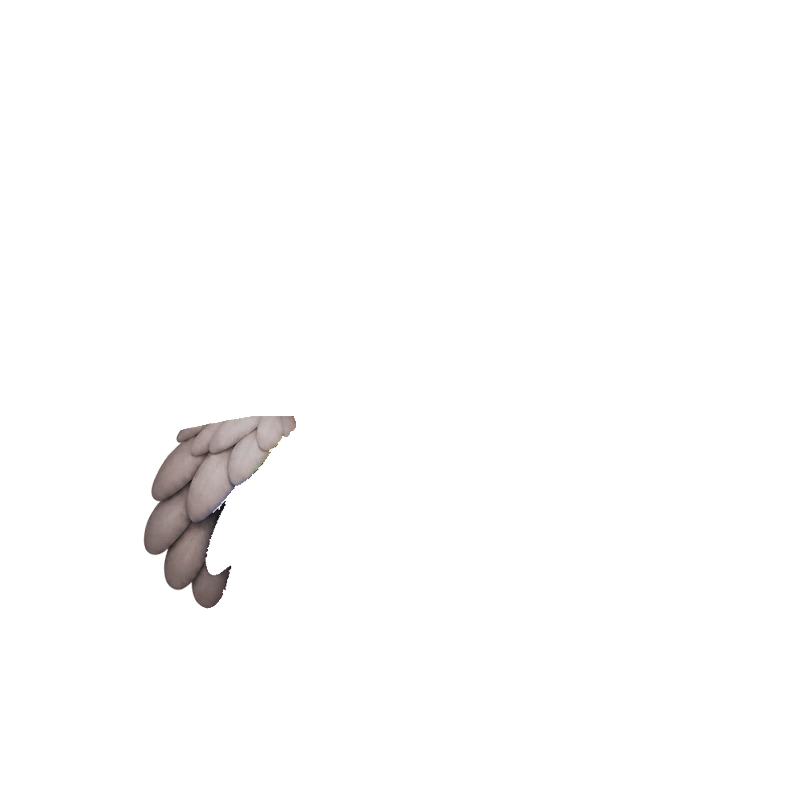
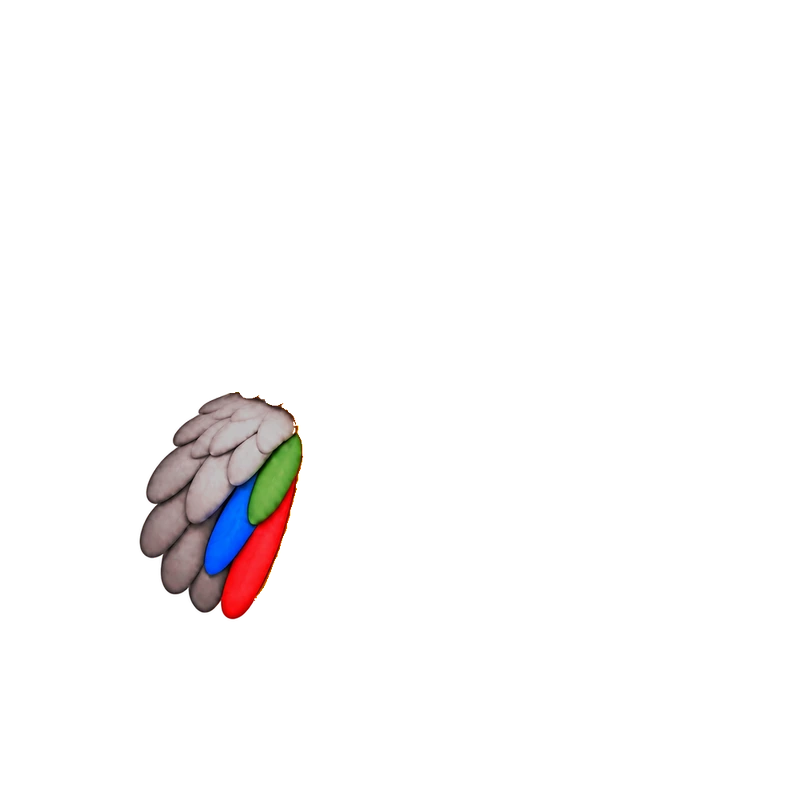
Parrot: locked v1.4 art, moving flight feathers and a per-bird wing pivot
The coloured flight feathers now travel with the wing units instead of
staying behind on the body, which fixes the odd mid-flap look where the
wing appeared to leave its own tips behind.

- the hidden underlay is gone: the supplied breast is the whole fixed body
- feet arrive as two independent layers, replacing the single feet layer
- shiftY 4.8 -> 4.4, because the art now reaches y 92.4 rather than 92.1

Wing pivot is now per-bird. Every manifest states a shoulder height and
the Parrot's has always been 6.5 units lower than the other two, but all
three were rotating about the shared 44. The stylesheet reads --wing-y,
the bird sets it, and only the Parrot overrides the default. Held items
share the pivot so they keep tracking the right wing.

Interior holes are gone - the feet's 945px and the face's 333px are now
0 and 1. Wings and head arrived neutral and passed through untouched.

Claude-Session: https://claude.ai/code/session_01BftYwBApCySU9gZJ9AtT18

Changed region(s): [[0.1562, 0.4688, 0.375, 0.7812], [0.1562, 0.6562, 0.1875, 0.6875]]

diff --git a/static/index.html b/static/index.html
@@ -1943,9 +1943,12 @@
      (335,440) and (665,440) on the 1000px canvas, which is (33.5,44) on the
      0-100 grid - and those are inside the group that nudges the bird down, so
      they are stated in the art's own coordinates, not the shifted ones. */
-  .avatar-dancing.avatar-layered .av-wing-l{transform-origin:33.5px 44px;}
+  /* Each delivery names its own shoulder height in its manifest - the Parrot's
+     sits 6.5 units lower than the others - so the bird sets --wing-y itself. */
+  .avatar-layered{--wing-y:44px;}
+  .avatar-dancing.avatar-layered .av-wing-l{transform-origin:33.5px var(--wing-y);}
   .avatar-dancing.avatar-layered .av-wing-r,
-  .avatar-dancing.avatar-layered .av-held{transform-origin:66.5px 44px;}
+  .avatar-dancing.avatar-layered .av-held{transform-origin:66.5px var(--wing-y);}
   @keyframes bodyWiggle{0%,100%{transform:translateX(0);}25%{transform:translateX(-0.6px);}75%{transform:translateX(0.6px);}}
   @keyframes wingL{0%,100%{transform:rotate(0deg);}50%{transform:rotate(45deg);}}
   @keyframes wingR{0%,100%{transform:rotate(0deg);}50%{transform:rotate(-45deg);}}
@@ -4893,14 +4896,14 @@ const PROTO_BIRDS = {
     { f: 'wing-r.webp', grp: 'wingR', wash: 'wash-wing-r.webp' },
     { f: 'head.webp',   grp: 'over',  wash: 'wash-head.webp' },
   ]},
-  parrot: { dir: '/static/avatar/parrot/', shiftY: 4.8, scale: 1.2, stack: [
-    { f: 'underlay.webp', grp: 'under' },
-    { f: 'feet.webp',     grp: 'under' },
-    { f: 'body.webp',     grp: 'torso' },
-    { f: 'wing-l.webp',   grp: 'wingL', wash: 'wash-wing-l.webp' },
-    { f: 'wing-r.webp',   grp: 'wingR', wash: 'wash-wing-r.webp' },
-    { f: 'head.webp',     grp: 'over',  wash: 'wash-head.webp' },
-    { f: 'face.webp',     grp: 'over' },
+  parrot: { dir: '/static/avatar/parrot/', shiftY: 4.4, scale: 1.2, wingY: 50.5, stack: [
+    { f: 'foot-l.webp', grp: 'under' },
+    { f: 'foot-r.webp', grp: 'under' },
+    { f: 'body.webp',   grp: 'torso' },
+    { f: 'wing-l.webp', grp: 'wingL', wash: 'wash-wing-l.webp' },
+    { f: 'wing-r.webp', grp: 'wingR', wash: 'wash-wing-r.webp' },
+    { f: 'head.webp',   grp: 'over',  wash: 'wash-head.webp' },
+    { f: 'face.webp',   grp: 'over' },
   ]},
 };
 
@@ -4956,7 +4959,8 @@ function protoAvatarSvg(body, size, equipped, dancing, accessoryLayers, heldLaye
     ? `<mask id="${maskId(i)}" maskUnits="userSpaceOnUse" x="0" y="0" width="100" height="100">${img(lay.wash)}</mask>`
     : '').join('');
 
-  return `<svg viewBox="0 0 100 100" width="${size}" height="${size}" style="overflow:visible;" class="avatar-layered ${dancing ? 'avatar-dancing' : ''}">
+  const pivot = bird.wingY ? `--wing-y:${bird.wingY}px;` : '';
+  return `<svg viewBox="0 0 100 100" width="${size}" height="${size}" style="overflow:visible;${pivot}" class="avatar-layered ${dancing ? 'avatar-dancing' : ''}">
     <defs>
       ${protoWashFilter(u + 'f', hex)}
       ${masks}
